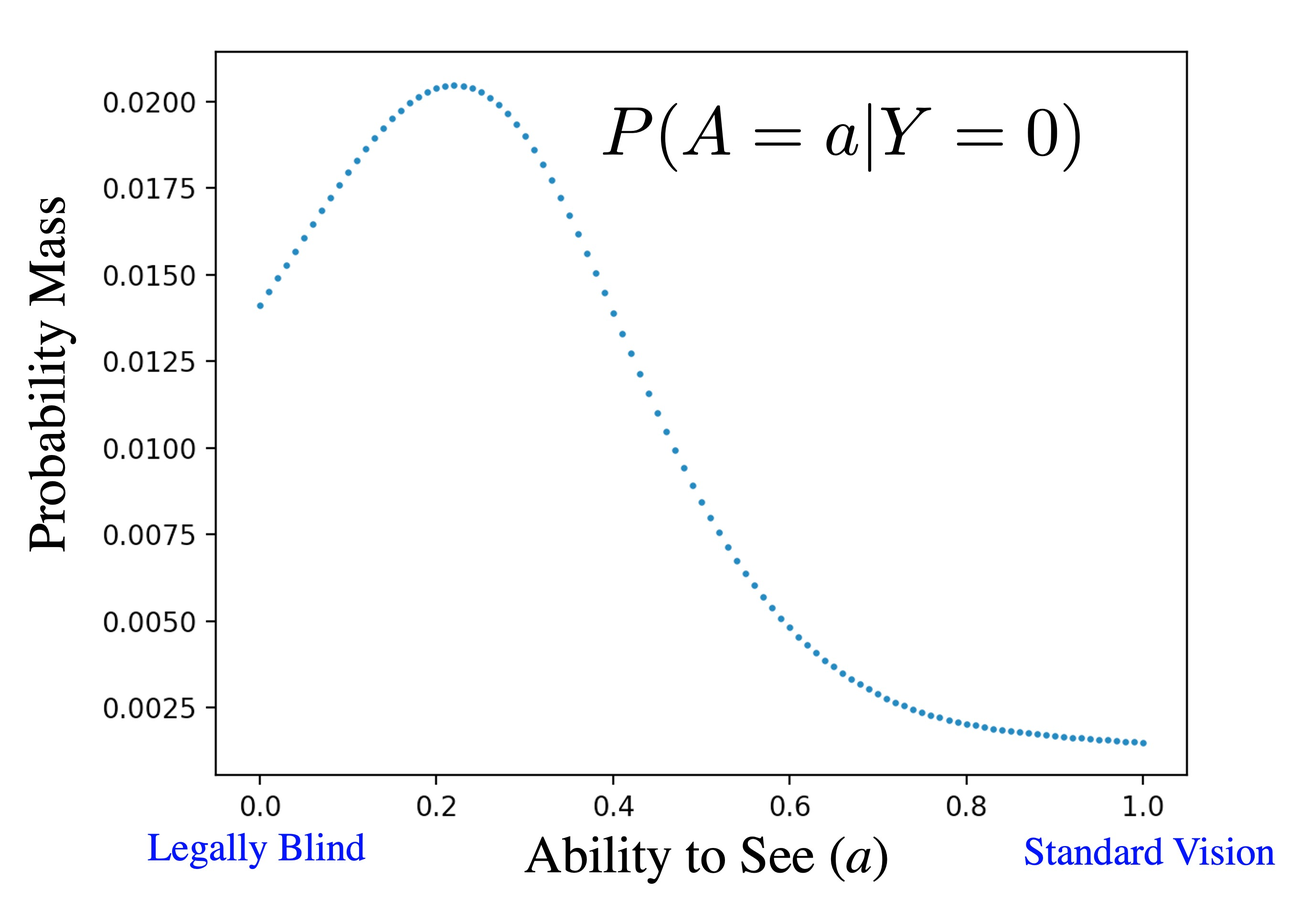
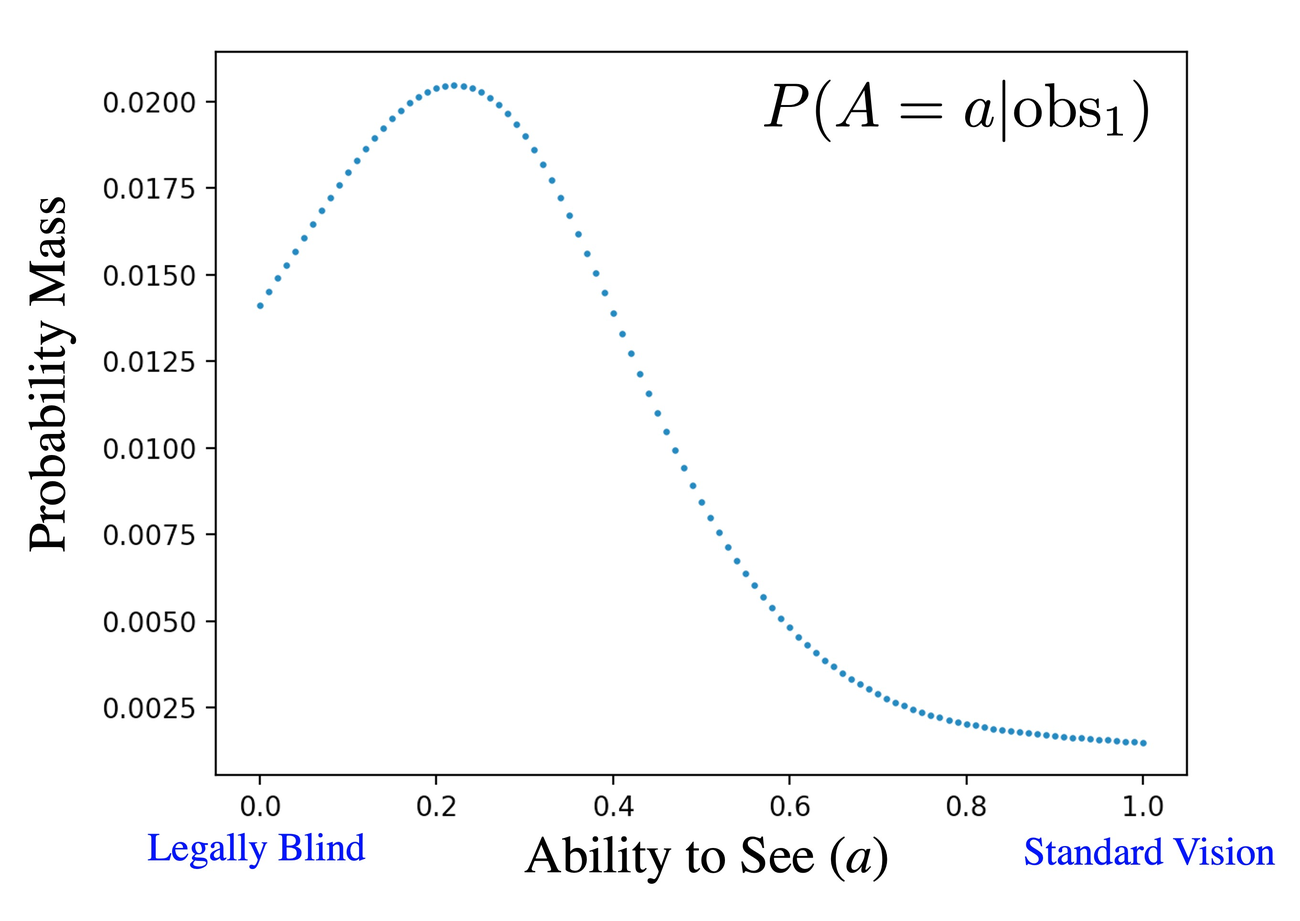
auto commit

Changed region(s): [[0.5933, 0.0933, 0.8744, 0.1866], [0.4684, 0.0933, 0.5621, 0.1866]]

diff --git a/chapters/examples/digital_vision_test/index.html b/chapters/examples/digital_vision_test/index.html
@@ -4,7 +4,7 @@
 <center><h1>Digital Vision Test</h1></center>
 <hr/>
 
-<div class="alert alert-primary"><b>The Story:</b> This problem was initially posed as a CS109 Final exam problem in Spring 2017.  This grew into a collaboration with a former student, Ali Malik, as well as a Stanford eye doctor Charles Lin. We realized that it was actually a much more accurate way of measuring visual acuity. The algorithm, which is called the Stanford Acuity Test, or StAT, has since been published as an article for AAAI and covered by Science Magazine and The Lancet. To the best of our knowledge, the algorithm is still the worlds most accurate visual acuity test.</div>
+<div class="alert alert-primary"><b>The Story:</b> This problem was initially posed as a CS109 Final exam problem in Spring 2017.  This grew into a collaboration with a former student, Ali Malik, as well as a Stanford Ophthalmology doctor Charles Lin. We realized that it was actually a much more accurate way of measuring visual acuity. The algorithm, which is called the Stanford Acuity Test, or StAT, has since been published as an article for AAAI and covered by Science Magazine and The Lancet. To the best of our knowledge, the algorithm is still the most acurate way to infer ability to see from an optotype based test.</div>
 
 <p>You can find a demo of the Stanford Acuity Test here: <a href="https://myeyes.ai/measure">https://myeyes.ai/</a>. Look out for the bar icon <i class="fas fa-signal"></i> to see the belief distribution change as the test progresses.</p>
 
@@ -241,37 +241,33 @@
 
 <h3>Observations</h3>
 
-<p>Once the patient starts the test, you will begin collecting observations. Consider this first observation, $\text{Obs}_1$ where the user was shown a letter with font size 0.7 and answered the question incorrectly:</p>
+<p>Once the patient starts the test, you will begin collecting observations. Consider this first observation, $\text{obs}_1$ where the patient was shown a letter with font size 0.7 and answered the question incorrectly:</p>
 <p>
 	<center>
 		<img class="mainFigureLg" src="{{pathToRoot}}img/visionTest/observation.jpg"></img><br/>
 	</center>
 	</p>
 
-<p>We can represent this observation as a tuple with font size and correctness. Mathematically this could be written as $\text{Obs}_1 = [0.7, 0]$. In code this observation could be stored as a dictionary
+<p>We can represent this observation as a tuple with font size and correctness. Mathematically this could be written as $\text{obs}_1 = [0.7, 0]$. In code this observation could be stored as a dictionary
 <pre class="language-python"><code>obs_1 = {
    "font_size":0.7,
    "is_correct":False
 }</code></pre>
 </p>
 
-<p>Eventually we will have 20 of these observations: $[\text{Obs}_1, \text{Obs}_2, \dots, \text{Obs}_{20}]$. </p>
+<p>Eventually we will have 20 of these observations: $[\text{obs}_1, \text{obs}_2, \dots, \text{obs}_{20}]$. </p>
 
 <h3>Infering Ability</h3>
 
-<p>One of the major tasks that we have to accomplish is to update our probability mass function for $A$ based on an observation. First let us consider how to update our belief in ability to see from a single observation $\text{Obs}_1$. We can use <a href="{{pathToLang}}part3/inference/">Bayes' Theory for random variables</a> </p>
-
-$$
+<p>Our first major task is to write code which can update our probability mass function for $A$ based on observations. First let us consider how to update our belief in ability to see from a single observation, $\text{obs}$ (formally this the event that random variable $\text{Obs}$ takes on the value $\text{obs}$). We can use <a href="{{pathToLang}}part3/inference/">Bayes' Theory for random variables</a>: 
 \begin{align*}
-\P(A=a|\text{Obs}_1) &= \frac{\P(\text{Obs}_1|A=a)P(A=a)}{\P(\text{Obs}_1)}\end{align*}
-$$
-
-<p>We already have values for the prior $\p(A=a)$. In the next section we will talk about how to calculate the likelihood term, $\P(\text{Obs}_1|A=a)$. We could compute the denominator exactly: 
+\P(A=a|\text{obs}) &= \frac{\P(\text{obs}|A=a)P(A=a)}{\P(\text{obs})}\end{align*}
+This will be computed for all assignments $a$ to ability to see. To do so we will need a way to compute each of the terms. We already have values for the prior $\p(A=a)$ and we can compute the denominator $\p(\text{obs})$ using the Law of Total Probability: 
     \begin{align*}
-    \P(\text{Obs}_1) &= \sum_x \P(\text{Obs}_1, A=x) && \href{ {{pathToLang}}part1/law_total/}{\text{LOTP}} \\
-    &= \sum_x P(\text{Obs}_1 | A=x)P(A=x)
+    \P(\text{obs}) &= \sum_x \P(\text{obs}, A=x) && \href{ {{pathToLang}}part1/law_total/}{\text{LOTP}} \\
+    &= \sum_x P(\text{obs} | A=x)P(A=x)
     \end{align*}
-Alternatively we could recognize that  all the terms in the denominator are repeats of terms that show up in the numerator. As such we can calculate the numerators, and normalize the numerators. Normalization is a two step process where you first compute the sum of all the values, and then divide each value by its sum.</p>
+Notice how the terms in the expression for $\p(\text{obs})$ already show up in the numerator of our Bayes' Theorem equation. As such, in code we are going to (1) compute the numerator for every value of $a$, store it as the value of belief, (2) compute the sum of all of those terms and (3) devide each value of belief by the sum. The process of doing steps 2 and 3 is also known as normalization:</p>
 
 <pre class="language-python"><code>def update_belief(belief, obs):
     """
@@ -279,7 +275,6 @@ Alternatively we could recognize that  all the terms in the denominator are repe
     variable representing how well someone can see based on a single
     observation (obs). Update the belief based using Bayes' Theorem
     """
-
     # loop over every value in the support of the belief RV
     for a in belief:
         # the prior belief P(A = a)
@@ -289,54 +284,94 @@ Alternatively we could recognize that  all the terms in the denominator are repe
         # numerator of Bayes' Theorem
         belief[a] = prior_a * likelihood
     # calculate the denominator of Bayes' Theorem
-    normalize(belief)</code></pre>
+    normalize(belief)
+  
+  def normalize(belief):
+    # in place normalization of a belief dictionary
+    total = belief_sum(belief)
+    for key in belief:
+        belief[key] /= total
+      
+  def belief_sum(belief):
+    # get the sum of probability mass for a discrete belief
+    total = 0
+    for key in belief:
+        total += belief[key]
+    return total</code></pre>
 
 
+        <p>At this point we have an expression, and corresponding code, to update our belief in ability to see given an observation. However we are <b>missing</b> a way to compute $\p(\text{Obs}|A=a)$. In our code this expression is the currently undefined <code>calc_likelihood(a, obs)</code> function. In the next section we will go over how to compute this "likelihood" function. Before we do so, let's take a look at the result of applying <code>update_belief</code> for a patient with the single observation <code>obs_1</code> defined above.</p>
 
     <p>
-        Since this patient got a rather large letter incorrect, e think they can't see very well, though we have a lot of uncertainty as it has only been one observation. This is expressed in our updated probability mass function for $A$, $\p(A = a | \text{Obs}_1)$. This updated belief is called the posterior. Here is what the posterior looks like for the observation in our previous section: a user was shown a letter with font size = 0.7 and got it incorrect:
+        Since <code>obs_1</code> says that this patient got a rather large letter incorrect, we think they can't see very well, though we have a lot of uncertainty as it has only been one observation. This is expressed in our updated probability mass function for $A$, $\p(A = a | \text{obs}_1)$. This updated belief is called the posterior. Here is what the posterior looks like for the observation in our previous section: a patient was shown a letter with font size = 0.7 and got it incorrect. Note that the posterior $\p(A=a|\text{obs}_1)$ is still represented in code as a dictionary, as in the prior, $\p(A=a)$:
         <center>
             <img class="mainFigureLg" src="{{pathToRoot}}img/visionTest/posterior.jpg"></img><br/>
             <i>The posterior belief on ability to see given a patient incorrectly identified a letter with font size 0.7. It shows a belief that the patient can't see very well.</i>
         </center>
         </p>
 
-        <p>What if you have multiple observations? For multiple observations the only term that will change will be the likelihood term $\p(\text{Observations}|A=a)$. We assume that each observation is independent, conditioned on ability to see. Formally $$\p(\text{Obs}_1, \dots, \text{Obs}_{20} |A=a) = \prod_i \p(\text{Obs}_i|A=a)$$ As such the likelihood of all observations will be the product of the likelihood of each observation on its own. This is equivalent mathematically to calculating the posterior for one observation and calling the posterior your new prior.</p>
+       
 
 <h3>Likelihood Function</h3>
 
-<p>The one major missing piece is an expression for $\p(\text{Obs}_i|A=a)$. In Bayes' Theorem this term called the likelihood because it is the likelihood of our observation given the underlying true state of the world. When computing this term we no longer have to estimate $A$. In this term we are told exactly how well the person can see. Their vision is truly $a$. Likelhood will be a function which will return back different values for different inputs of $a$ and $\text{Obs}_i$. In python this will be a function <code>calc_likelihood(a, obs)</code>. We could imagine a concrete call to this function with $a=0.5$:
-    <pre class="language-python"><code># get an observation
+<p>We are not done yet! We have not yet said how we will compute $\p(\text{obs}|A=a)$. In Bayes' Theorem this term is called the "likelihood." The likelhood for our eye exam will be function that returns back probabilities for inputs of $a$ and $\text{obs}$. In python this will be a function <code>calc_likelihood(a, obs)</code>. In this function <code>obs</code> is a single observation such as <code>obs_1</code> described above. Imagine a concrete call to the likelihood function bellow. This call will return back the probability a person who has true ability to see of 0.5 would get a letter of font-size 0.7 incorrect.
+  <pre class="language-python"><code># get an observation
 obs = {
-    "font_size":0.7,
-    "is_correct":False
+  "font_size":0.7,
+  "is_correct":False
 }
-# calculate likelihood for a given a
+# calculate likelihood for obs given a, P(obs | A = a)
 calc_likelihood(a = 0.5, obs)</code></pre>
-</p>
+</p>Before going any further, let's make two critical notes about the likelihood function:</p>
 
-<p>Defining the likelihood function involves more opthomology and testing theory than probability theory. You don't need to know either for this course! As such, let's consider a simple version, with the intention of giving you the full end to end system. A very classic testing theory model, called "<a href="https://en.wikipedia.org/wiki/Item_response_theory">Item Response Theory</a>" is the simplest exam likelihood model. It makes the assumption that the probability that a student with ability $a$ gets a question with difficulty $d$ correct is:
-    $$ \p(\text{Correct}|a,d) = \frac{1}{1+e^{-(a-d)}}$$
-where $e$ is the <a href="https://en.wikipedia.org/wiki/E_(mathematical_constant)">natural base</a>. We can define the difficulty of a letter with font size $f$ to be $d = 1-f$ to account for the fact that large font sizes are easier. As such we can modify Item Response Theory for eye exams:
-$$ \p(\text{Correct}|a,f) = \frac{1}{1+e^{-(a+f-1)}}$$
-This equation incorporates the "sigmoid function", $\text{sigmoid}(x) = \frac{1}{1+e^{-x}}$, which plays the role of squashing transforming input to be in the range $[0, 1]$. As such our function could be rewritten as $\p(\text{Correct}|a,f) = \text{sigmoid}(a+f-1)$. In code it would look like this:
+<p><b>Note 1:</b> When computing the likelihood term, $\p(\text{obs}|A=a)$, we do not have to estimate $A$ as it shows up on the right hand size of the conditional. In the likelihood term we are told <i>exactly</i> how well the person can see. Their vision is truly $a$. Do not be fooled by the fact that $a$ is a (non-random) variable. When computing the likelihood function this varaible will have a numeric value. 
+
+<p><b>Note 2:</b> The variable <code>obs</code> represents a single patient interaction. It has two parts: a font-size and a correctness. However, only correctness is a random variable. Font-size is known as it was chosen by the algorithm. As such $\p(\text{obs}|A=a)$ is actually $\p(\text{correct}|A=a)$ in the context of a fixed font-size, $f$.  correct has the value <code>True</code> if the patient answered correctly and <code>False</code> otherwise.</p>
+
+
+<p>Defining the likelihood function,  $\p(\text{correct}|A=a)$, involves more medical and education theory than probability theory. You don't need to know either for this course! But it is still neat to know and without the likelihood function we won't have complete code. So, let's dive in.</p>
+
+<p>A very practical starting point for the likelihood function for a vision test comes from a  classic education model called "<a href="https://en.wikipedia.org/wiki/Item_response_theory">Item Response Theory</a>", also known as IRT. IRT <i>assumes</i> the probability that a student with ability $a$ gets a question with difficulty $d$ correct is governed by the easy to compute function:
+ 
+
+
+ \begin{align*} 
+ \p(&\text{Correct} = \text{True}|a,d)  \\
+ &= \text{sigmoid}(a-d)\\
+ &= \frac{1}{1+e^{-(a-d)}} \\
+
+ \end{align*}
+where $e$ is the <a href="https://en.wikipedia.org/wiki/E_(mathematical_constant)">natural base</a> constant and   $\text{sigmoid}(x) = \frac{1}{1+e^{-x}}$. The <a href="https://en.wikipedia.org/wiki/Sigmoid_function">sigmoid function</a> is a handy function which takes in any real valued input and returns a value in the range $[0, 1]$.</p>
+
+<p>This IRT model introduces a new variable: difficulty of a letter $d$. How difficult is it to correctly respond to a letter with a given font size? The simplest way to model difficulty, while accounting for the fact that large font sizes are easier than small ones, is to define the difficulty of a letter with font size $f$ to be $d = 1-f$. Plugging this in:
+  \begin{align*} 
+  \p(&\text{Correct} = \text{True}|a,f)\\
+  &= \text{sigmoid}(a-1+f)\\  
+  &= \frac{1}{1+e^{-(a-1+f)}}
+  \end{align*}
+
+We now have a complete, if simplistic, liklihood function!  In code it would look like this:
 <pre class="language-python"><code>def calc_likelihood(a, obs):
     # returns P(obs | A = a) using Item Response Theory
     f = obs["font_size"]
-    p_correct = sigmoid(a + f - 1)
+    p_correct_true = sigmoid(a + f - 1)
     if obs["is_correct"]:
-        return p_correct
+        return p_correct_true
     else:
-        return 1 - p_correct
+        return 1 - p_correct_true
 
 def sigmoid(x):
     # the classic squashing function. All outputs are [0,1]
     return 1 / (1 + math.exp(-x))
 </code></pre>
-Note that Item Response Theory returns the probability that a a patient answers a letter correctly. The probability that they answer incorrectly is simply: $$\p(\text{Incorrect}|a,f) = 1-\p(\text{Correct}|a,f)$$</p>
+Note that Item Response Theory returns the probability that a a patient answers a letter <i>correctly</i>. In the code above, notice what we do if the patient instead guesses the letter incorrectly: $$\p(\text{Correct} = \text{False}|a,f) = 1-\p(\text{Correct} = \text{True}|a,f)$$</p>
 
-<p>In the Stanford Acuity Test we extend Item Response Theory in several ways. We have a term for the probability that a users gets the answer correct by guessing (seeing as there are only four options) as well as a term that they make a mistake, aka "slip", even though they know the correct answer. We also observed that a Floored Exponential seems to be a more accurate function than the sigmoid.
+<p>In the published version of the Stanford Acuity Test we extend Item Response Theory in several ways. We have a term for the probability that a patient gets the answer correct by guessing (seeing as there are only four options) as well as a term that they make a mistake, aka "slip", even though they know the correct answer. We also observed that a Floored Exponential seems to be a more accurate function than the sigmoid. These extensions are beyond the scope of this chapter as they are not central to the probability insight.
 </p>
+
+<h3>Multiple Observations</h3>
+
+<p>What if you have multiple observations? For multiple observations the only term that will change will be the likelihood term $\p(\text{Observations}|A=a)$. We assume that each observation is independent, conditioned on ability to see. Formally $$\p(\text{obs}_1, \dots, \text{obs}_{20} |A=a) = \prod_i \p(\text{obs}_i|A=a)$$ As such the likelihood of all observations will be the product of the likelihood of each observation on its own. This is equivalent mathematically to calculating the posterior for one observation and calling the posterior your new prior.</p>
 
 <h3>The Full Code</h3>
 <p>Here is the full code for inference of ability to see given observations, minus the user interface functions and the file reading for the prior belief:
@@ -358,7 +393,6 @@ def update_belief(belief, obs):
     variable representing how well someone can see based on a single
     observation (obs). Update the belief based using Bayes' Theorem
     """
-
     # loop over every value in the support of the belief RV
     for a in belief:
         # the prior belief P(A = a)
@@ -418,7 +452,7 @@ def belief_sum(belief):
         <td style="border-top: none !important;">[2]</td> <td style="border-top: none !important;"><a target="_blank" href="https://www.thelancet.com/journals/lancet/article/PIIS0140-6736(21)02149-8/fulltext">Digitising the vision test</a>. The Lancet Journal. </td></tr>
 <tr><td style="border-top: none !important;">[3]</td><td style="border-top: none !important;"><a target="_blank" href="https://www.science.org/content/article/eye-robot-artificial-intelligence-dramatically-improves-accuracy-classic-eye-exam">Eye, robot: Artificial intelligence dramatically improves accuracy of classic eye exam</a>. Science Magazine.</td></tr>
 </table>
-Special thanks to Ali Malik who co-invented the Stanford Acuity Test
+Special thanks to Ali Malik who co-invented the Stanford Acuity Test.
  </p>
 
 

diff --git a/en/examples/digital_vision_test/index.html b/en/examples/digital_vision_test/index.html
@@ -352,7 +352,7 @@
 <center><h1>Digital Vision Test</h1></center>
 <hr/>
 
-<div class="alert alert-primary"><b>The Story:</b> This problem was initially posed as a CS109 Final exam problem in Spring 2017.  This grew into a collaboration with a former student, Ali Malik, as well as a Stanford eye doctor Charles Lin. We realized that it was actually a much more accurate way of measuring visual acuity. The algorithm, which is called the Stanford Acuity Test, or StAT, has since been published as an article for AAAI and covered by Science Magazine and The Lancet. To the best of our knowledge, the algorithm is still the worlds most accurate visual acuity test.</div>
+<div class="alert alert-primary"><b>The Story:</b> This problem was initially posed as a CS109 Final exam problem in Spring 2017.  This grew into a collaboration with a former student, Ali Malik, as well as a Stanford Ophthalmology doctor Charles Lin. We realized that it was actually a much more accurate way of measuring visual acuity. The algorithm, which is called the Stanford Acuity Test, or StAT, has since been published as an article for AAAI and covered by Science Magazine and The Lancet. To the best of our knowledge, the algorithm is still the most acurate way to infer ability to see from an optotype based test.</div>
 
 <p>You can find a demo of the Stanford Acuity Test here: <a href="https://myeyes.ai/measure">https://myeyes.ai/</a>. Look out for the bar icon <i class="fas fa-signal"></i> to see the belief distribution change as the test progresses.</p>
 
@@ -589,37 +589,33 @@
 
 <h3>Observations</h3>
 
-<p>Once the patient starts the test, you will begin collecting observations. Consider this first observation, $\text{Obs}_1$ where the user was shown a letter with font size 0.7 and answered the question incorrectly:</p>
+<p>Once the patient starts the test, you will begin collecting observations. Consider this first observation, $\text{obs}_1$ where the patient was shown a letter with font size 0.7 and answered the question incorrectly:</p>
 <p>
 	<center>
 		<img class="mainFigureLg" src="../../../img/visionTest/observation.jpg"></img><br/>
 	</center>
 	</p>
 
-<p>We can represent this observation as a tuple with font size and correctness. Mathematically this could be written as $\text{Obs}_1 = [0.7, 0]$. In code this observation could be stored as a dictionary
+<p>We can represent this observation as a tuple with font size and correctness. Mathematically this could be written as $\text{obs}_1 = [0.7, 0]$. In code this observation could be stored as a dictionary
 <pre class="language-python"><code>obs_1 = {
    "font_size":0.7,
    "is_correct":False
 }</code></pre>
 </p>
 
-<p>Eventually we will have 20 of these observations: $[\text{Obs}_1, \text{Obs}_2, \dots, \text{Obs}_{20}]$. </p>
+<p>Eventually we will have 20 of these observations: $[\text{obs}_1, \text{obs}_2, \dots, \text{obs}_{20}]$. </p>
 
 <h3>Infering Ability</h3>
 
-<p>One of the major tasks that we have to accomplish is to update our probability mass function for $A$ based on an observation. First let us consider how to update our belief in ability to see from a single observation $\text{Obs}_1$. We can use <a href="../../part3/inference/">Bayes' Theory for random variables</a> </p>
-
-$$
+<p>Our first major task is to write code which can update our probability mass function for $A$ based on observations. First let us consider how to update our belief in ability to see from a single observation, $\text{obs}$ (formally this the event that random variable $\text{Obs}$ takes on the value $\text{obs}$). We can use <a href="../../part3/inference/">Bayes' Theory for random variables</a>: 
 \begin{align*}
-\P(A=a|\text{Obs}_1) &= \frac{\P(\text{Obs}_1|A=a)P(A=a)}{\P(\text{Obs}_1)}\end{align*}
-$$
-
-<p>We already have values for the prior $\p(A=a)$. In the next section we will talk about how to calculate the likelihood term, $\P(\text{Obs}_1|A=a)$. We could compute the denominator exactly: 
+\P(A=a|\text{obs}) &= \frac{\P(\text{obs}|A=a)P(A=a)}{\P(\text{obs})}\end{align*}
+This will be computed for all assignments $a$ to ability to see. To do so we will need a way to compute each of the terms. We already have values for the prior $\p(A=a)$ and we can compute the denominator $\p(\text{obs})$ using the Law of Total Probability: 
     \begin{align*}
-    \P(\text{Obs}_1) &= \sum_x \P(\text{Obs}_1, A=x) && \href{ ../../part1/law_total/}{\text{LOTP}} \\
-    &= \sum_x P(\text{Obs}_1 | A=x)P(A=x)
+    \P(\text{obs}) &= \sum_x \P(\text{obs}, A=x) && \href{ ../../part1/law_total/}{\text{LOTP}} \\
+    &= \sum_x P(\text{obs} | A=x)P(A=x)
     \end{align*}
-Alternatively we could recognize that  all the terms in the denominator are repeats of terms that show up in the numerator. As such we can calculate the numerators, and normalize the numerators. Normalization is a two step process where you first compute the sum of all the values, and then divide each value by its sum.</p>
+Notice how the terms in the expression for $\p(\text{obs})$ already show up in the numerator of our Bayes' Theorem equation. As such, in code we are going to (1) compute the numerator for every value of $a$, store it as the value of belief, (2) compute the sum of all of those terms and (3) devide each value of belief by the sum. The process of doing steps 2 and 3 is also known as normalization:</p>
 
 <pre class="language-python"><code>def update_belief(belief, obs):
     """
@@ -627,7 +623,6 @@ Alternatively we could recognize that  all the terms in the denominator are repe
     variable representing how well someone can see based on a single
     observation (obs). Update the belief based using Bayes' Theorem
     """
-
     # loop over every value in the support of the belief RV
     for a in belief:
         # the prior belief P(A = a)
@@ -637,54 +632,94 @@ Alternatively we could recognize that  all the terms in the denominator are repe
         # numerator of Bayes' Theorem
         belief[a] = prior_a * likelihood
     # calculate the denominator of Bayes' Theorem
-    normalize(belief)</code></pre>
+    normalize(belief)
+  
+  def normalize(belief):
+    # in place normalization of a belief dictionary
+    total = belief_sum(belief)
+    for key in belief:
+        belief[key] /= total
+      
+  def belief_sum(belief):
+    # get the sum of probability mass for a discrete belief
+    total = 0
+    for key in belief:
+        total += belief[key]
+    return total</code></pre>
 
 
+        <p>At this point we have an expression, and corresponding code, to update our belief in ability to see given an observation. However we are <b>missing</b> a way to compute $\p(\text{Obs}|A=a)$. In our code this expression is the currently undefined <code>calc_likelihood(a, obs)</code> function. In the next section we will go over how to compute this "likelihood" function. Before we do so, let's take a look at the result of applying <code>update_belief</code> for a patient with the single observation <code>obs_1</code> defined above.</p>
 
     <p>
-        Since this patient got a rather large letter incorrect, e think they can't see very well, though we have a lot of uncertainty as it has only been one observation. This is expressed in our updated probability mass function for $A$, $\p(A = a | \text{Obs}_1)$. This updated belief is called the posterior. Here is what the posterior looks like for the observation in our previous section: a user was shown a letter with font size = 0.7 and got it incorrect:
+        Since <code>obs_1</code> says that this patient got a rather large letter incorrect, we think they can't see very well, though we have a lot of uncertainty as it has only been one observation. This is expressed in our updated probability mass function for $A$, $\p(A = a | \text{obs}_1)$. This updated belief is called the posterior. Here is what the posterior looks like for the observation in our previous section: a patient was shown a letter with font size = 0.7 and got it incorrect. Note that the posterior $\p(A=a|\text{obs}_1)$ is still represented in code as a dictionary, as in the prior, $\p(A=a)$:
         <center>
             <img class="mainFigureLg" src="../../../img/visionTest/posterior.jpg"></img><br/>
             <i>The posterior belief on ability to see given a patient incorrectly identified a letter with font size 0.7. It shows a belief that the patient can't see very well.</i>
         </center>
         </p>
 
-        <p>What if you have multiple observations? For multiple observations the only term that will change will be the likelihood term $\p(\text{Observations}|A=a)$. We assume that each observation is independent, conditioned on ability to see. Formally $$\p(\text{Obs}_1, \dots, \text{Obs}_{20} |A=a) = \prod_i \p(\text{Obs}_i|A=a)$$ As such the likelihood of all observations will be the product of the likelihood of each observation on its own. This is equivalent mathematically to calculating the posterior for one observation and calling the posterior your new prior.</p>
+       
 
 <h3>Likelihood Function</h3>
 
-<p>The one major missing piece is an expression for $\p(\text{Obs}_i|A=a)$. In Bayes' Theorem this term called the likelihood because it is the likelihood of our observation given the underlying true state of the world. When computing this term we no longer have to estimate $A$. In this term we are told exactly how well the person can see. Their vision is truly $a$. Likelhood will be a function which will return back different values for different inputs of $a$ and $\text{Obs}_i$. In python this will be a function <code>calc_likelihood(a, obs)</code>. We could imagine a concrete call to this function with $a=0.5$:
-    <pre class="language-python"><code># get an observation
+<p>We are not done yet! We have not yet said how we will compute $\p(\text{obs}|A=a)$. In Bayes' Theorem this term is called the "likelihood." The likelhood for our eye exam will be function that returns back probabilities for inputs of $a$ and $\text{obs}$. In python this will be a function <code>calc_likelihood(a, obs)</code>. In this function <code>obs</code> is a single observation such as <code>obs_1</code> described above. Imagine a concrete call to the likelihood function bellow. This call will return back the probability a person who has true ability to see of 0.5 would get a letter of font-size 0.7 incorrect.
+  <pre class="language-python"><code># get an observation
 obs = {
-    "font_size":0.7,
-    "is_correct":False
+  "font_size":0.7,
+  "is_correct":False
 }
-# calculate likelihood for a given a
+# calculate likelihood for obs given a, P(obs | A = a)
 calc_likelihood(a = 0.5, obs)</code></pre>
-</p>
+</p>Before going any further, let's make two critical notes about the likelihood function:</p>
 
-<p>Defining the likelihood function involves more opthomology and testing theory than probability theory. You don't need to know either for this course! As such, let's consider a simple version, with the intention of giving you the full end to end system. A very classic testing theory model, called "<a href="https://en.wikipedia.org/wiki/Item_response_theory">Item Response Theory</a>" is the simplest exam likelihood model. It makes the assumption that the probability that a student with ability $a$ gets a question with difficulty $d$ correct is:
-    $$ \p(\text{Correct}|a,d) = \frac{1}{1+e^{-(a-d)}}$$
-where $e$ is the <a href="https://en.wikipedia.org/wiki/E_(mathematical_constant)">natural base</a>. We can define the difficulty of a letter with font size $f$ to be $d = 1-f$ to account for the fact that large font sizes are easier. As such we can modify Item Response Theory for eye exams:
-$$ \p(\text{Correct}|a,f) = \frac{1}{1+e^{-(a+f-1)}}$$
-This equation incorporates the "sigmoid function", $\text{sigmoid}(x) = \frac{1}{1+e^{-x}}$, which plays the role of squashing transforming input to be in the range $[0, 1]$. As such our function could be rewritten as $\p(\text{Correct}|a,f) = \text{sigmoid}(a+f-1)$. In code it would look like this:
+<p><b>Note 1:</b> When computing the likelihood term, $\p(\text{obs}|A=a)$, we do not have to estimate $A$ as it shows up on the right hand size of the conditional. In the likelihood term we are told <i>exactly</i> how well the person can see. Their vision is truly $a$. Do not be fooled by the fact that $a$ is a (non-random) variable. When computing the likelihood function this varaible will have a numeric value. 
+
+<p><b>Note 2:</b> The variable <code>obs</code> represents a single patient interaction. It has two parts: a font-size and a correctness. However, only correctness is a random variable. Font-size is known as it was chosen by the algorithm. As such $\p(\text{obs}|A=a)$ is actually $\p(\text{correct}|A=a)$ in the context of a fixed font-size, $f$.  correct has the value <code>True</code> if the patient answered correctly and <code>False</code> otherwise.</p>
+
+
+<p>Defining the likelihood function,  $\p(\text{correct}|A=a)$, involves more medical and education theory than probability theory. You don't need to know either for this course! But it is still neat to know and without the likelihood function we won't have complete code. So, let's dive in.</p>
+
+<p>A very practical starting point for the likelihood function for a vision test comes from a  classic education model called "<a href="https://en.wikipedia.org/wiki/Item_response_theory">Item Response Theory</a>", also known as IRT. IRT <i>assumes</i> the probability that a student with ability $a$ gets a question with difficulty $d$ correct is governed by the easy to compute function:
+ 
+
+
+ \begin{align*} 
+ \p(&\text{Correct} = \text{True}|a,d)  \\
+ &= \text{sigmoid}(a-d)\\
+ &= \frac{1}{1+e^{-(a-d)}} \\
+
+ \end{align*}
+where $e$ is the <a href="https://en.wikipedia.org/wiki/E_(mathematical_constant)">natural base</a> constant and   $\text{sigmoid}(x) = \frac{1}{1+e^{-x}}$. The <a href="https://en.wikipedia.org/wiki/Sigmoid_function">sigmoid function</a> is a handy function which takes in any real valued input and returns a value in the range $[0, 1]$.</p>
+
+<p>This IRT model introduces a new variable: difficulty of a letter $d$. How difficult is it to correctly respond to a letter with a given font size? The simplest way to model difficulty, while accounting for the fact that large font sizes are easier than small ones, is to define the difficulty of a letter with font size $f$ to be $d = 1-f$. Plugging this in:
+  \begin{align*} 
+  \p(&\text{Correct} = \text{True}|a,f)\\
+  &= \text{sigmoid}(a-1+f)\\  
+  &= \frac{1}{1+e^{-(a-1+f)}}
+  \end{align*}
+
+We now have a complete, if simplistic, liklihood function!  In code it would look like this:
 <pre class="language-python"><code>def calc_likelihood(a, obs):
     # returns P(obs | A = a) using Item Response Theory
     f = obs["font_size"]
-    p_correct = sigmoid(a + f - 1)
+    p_correct_true = sigmoid(a + f - 1)
     if obs["is_correct"]:
-        return p_correct
+        return p_correct_true
     else:
-        return 1 - p_correct
+        return 1 - p_correct_true
 
 def sigmoid(x):
     # the classic squashing function. All outputs are [0,1]
     return 1 / (1 + math.exp(-x))
 </code></pre>
-Note that Item Response Theory returns the probability that a a patient answers a letter correctly. The probability that they answer incorrectly is simply: $$\p(\text{Incorrect}|a,f) = 1-\p(\text{Correct}|a,f)$$</p>
+Note that Item Response Theory returns the probability that a a patient answers a letter <i>correctly</i>. In the code above, notice what we do if the patient instead guesses the letter incorrectly: $$\p(\text{Correct} = \text{False}|a,f) = 1-\p(\text{Correct} = \text{True}|a,f)$$</p>
 
-<p>In the Stanford Acuity Test we extend Item Response Theory in several ways. We have a term for the probability that a users gets the answer correct by guessing (seeing as there are only four options) as well as a term that they make a mistake, aka "slip", even though they know the correct answer. We also observed that a Floored Exponential seems to be a more accurate function than the sigmoid.
+<p>In the published version of the Stanford Acuity Test we extend Item Response Theory in several ways. We have a term for the probability that a patient gets the answer correct by guessing (seeing as there are only four options) as well as a term that they make a mistake, aka "slip", even though they know the correct answer. We also observed that a Floored Exponential seems to be a more accurate function than the sigmoid. These extensions are beyond the scope of this chapter as they are not central to the probability insight.
 </p>
+
+<h3>Multiple Observations</h3>
+
+<p>What if you have multiple observations? For multiple observations the only term that will change will be the likelihood term $\p(\text{Observations}|A=a)$. We assume that each observation is independent, conditioned on ability to see. Formally $$\p(\text{obs}_1, \dots, \text{obs}_{20} |A=a) = \prod_i \p(\text{obs}_i|A=a)$$ As such the likelihood of all observations will be the product of the likelihood of each observation on its own. This is equivalent mathematically to calculating the posterior for one observation and calling the posterior your new prior.</p>
 
 <h3>The Full Code</h3>
 <p>Here is the full code for inference of ability to see given observations, minus the user interface functions and the file reading for the prior belief:
@@ -706,7 +741,6 @@ def update_belief(belief, obs):
     variable representing how well someone can see based on a single
     observation (obs). Update the belief based using Bayes' Theorem
     """
-
     # loop over every value in the support of the belief RV
     for a in belief:
         # the prior belief P(A = a)
@@ -766,7 +800,7 @@ def belief_sum(belief):
         <td style="border-top: none !important;">[2]</td> <td style="border-top: none !important;"><a target="_blank" href="https://www.thelancet.com/journals/lancet/article/PIIS0140-6736(21)02149-8/fulltext">Digitising the vision test</a>. The Lancet Journal. </td></tr>
 <tr><td style="border-top: none !important;">[3]</td><td style="border-top: none !important;"><a target="_blank" href="https://www.science.org/content/article/eye-robot-artificial-intelligence-dramatically-improves-accuracy-classic-eye-exam">Eye, robot: Artificial intelligence dramatically improves accuracy of classic eye exam</a>. Science Magazine.</td></tr>
 </table>
-Special thanks to Ali Malik who co-invented the Stanford Acuity Test
+Special thanks to Ali Malik who co-invented the Stanford Acuity Test.
  </p>
 
 

diff --git a/en/examples/random_shuffles/index.html b/en/examples/random_shuffles/index.html
@@ -365,7 +365,7 @@
     \text{Num. Unique Orderings} 
     &= 52! 
 \end{align*}
-<span style="word-wrap: break-word;"> That is a humongous number. 52! equals 80658175170943878571660636856403766975289505440883277824000000000000.<br/> That is over $8 \cdot 10^{67}$. Recall that it is estimated that there are around $10^{82}$ atoms in the observable universe</span>
+<span style="word-wrap: break-word;"> That is a humongous number. 52! equals 80658175170943878571660636856403766975289505440883277824000000000000.<br/> That is over $8 \cdot 10^{67}$. Recall it is estimated that there are around $10^{82}$ atoms in the observable universe</span>
 </a></div>
 
 <h3>Number of Shuffles Ever Seen</h3>
